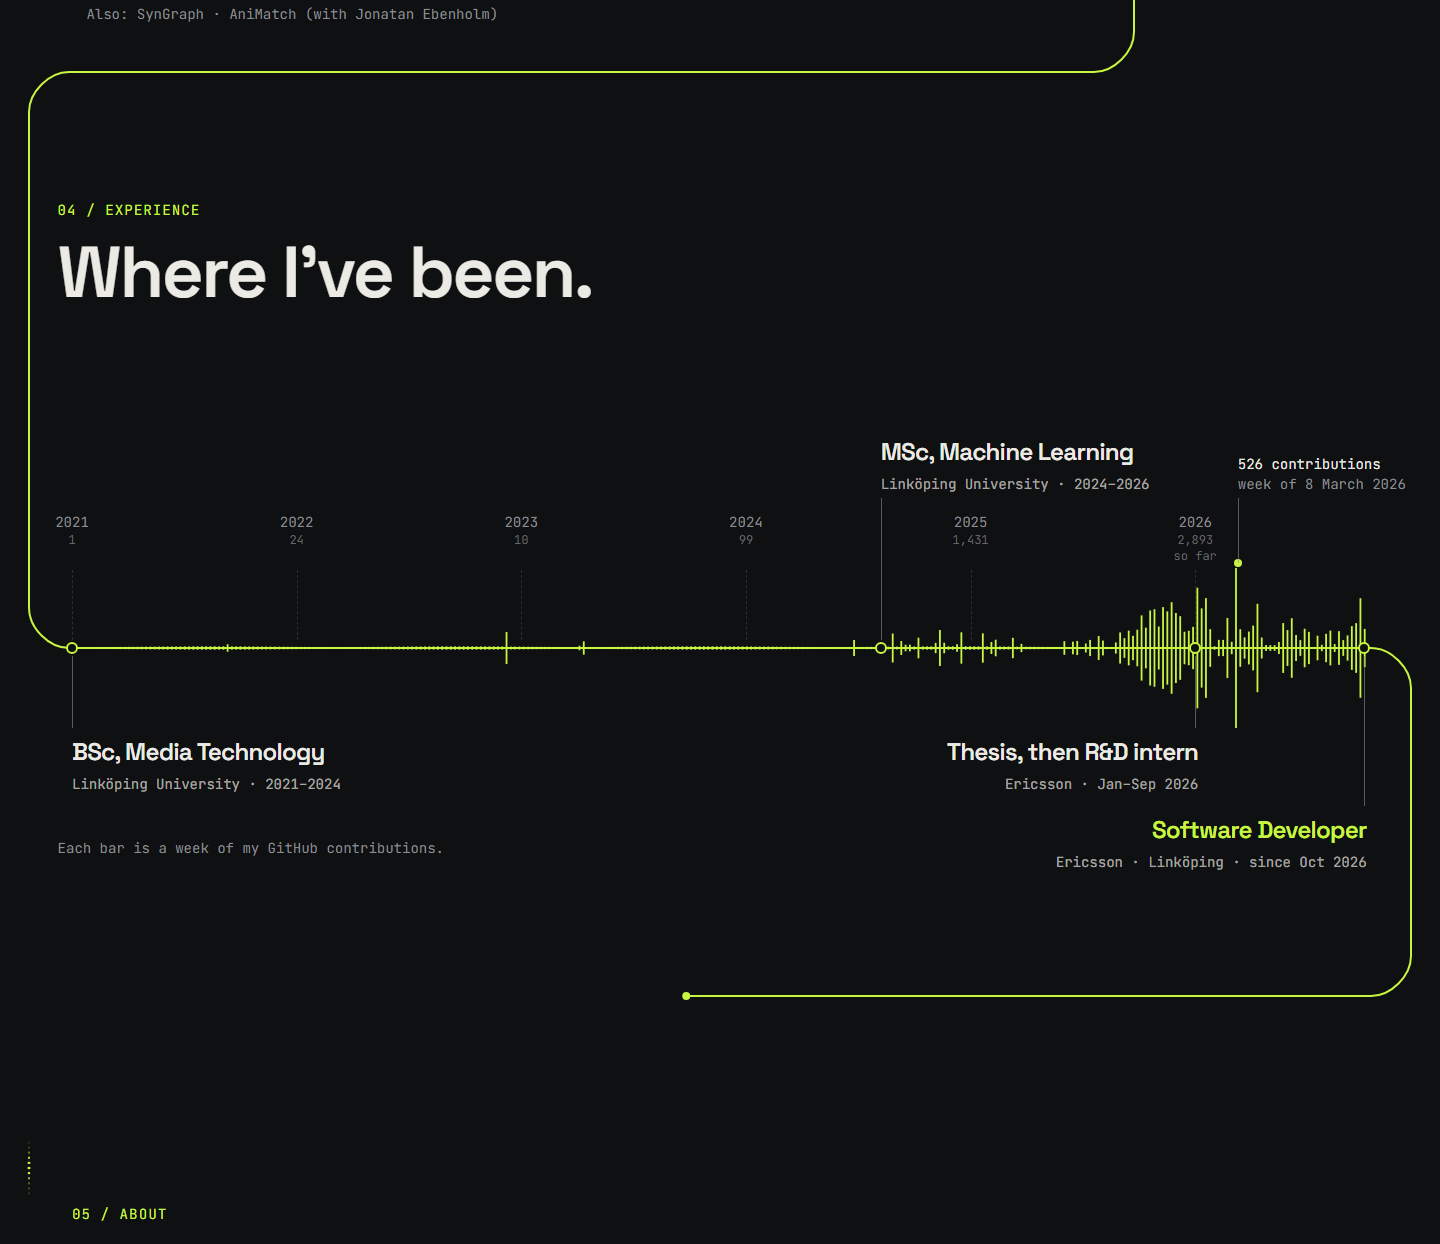
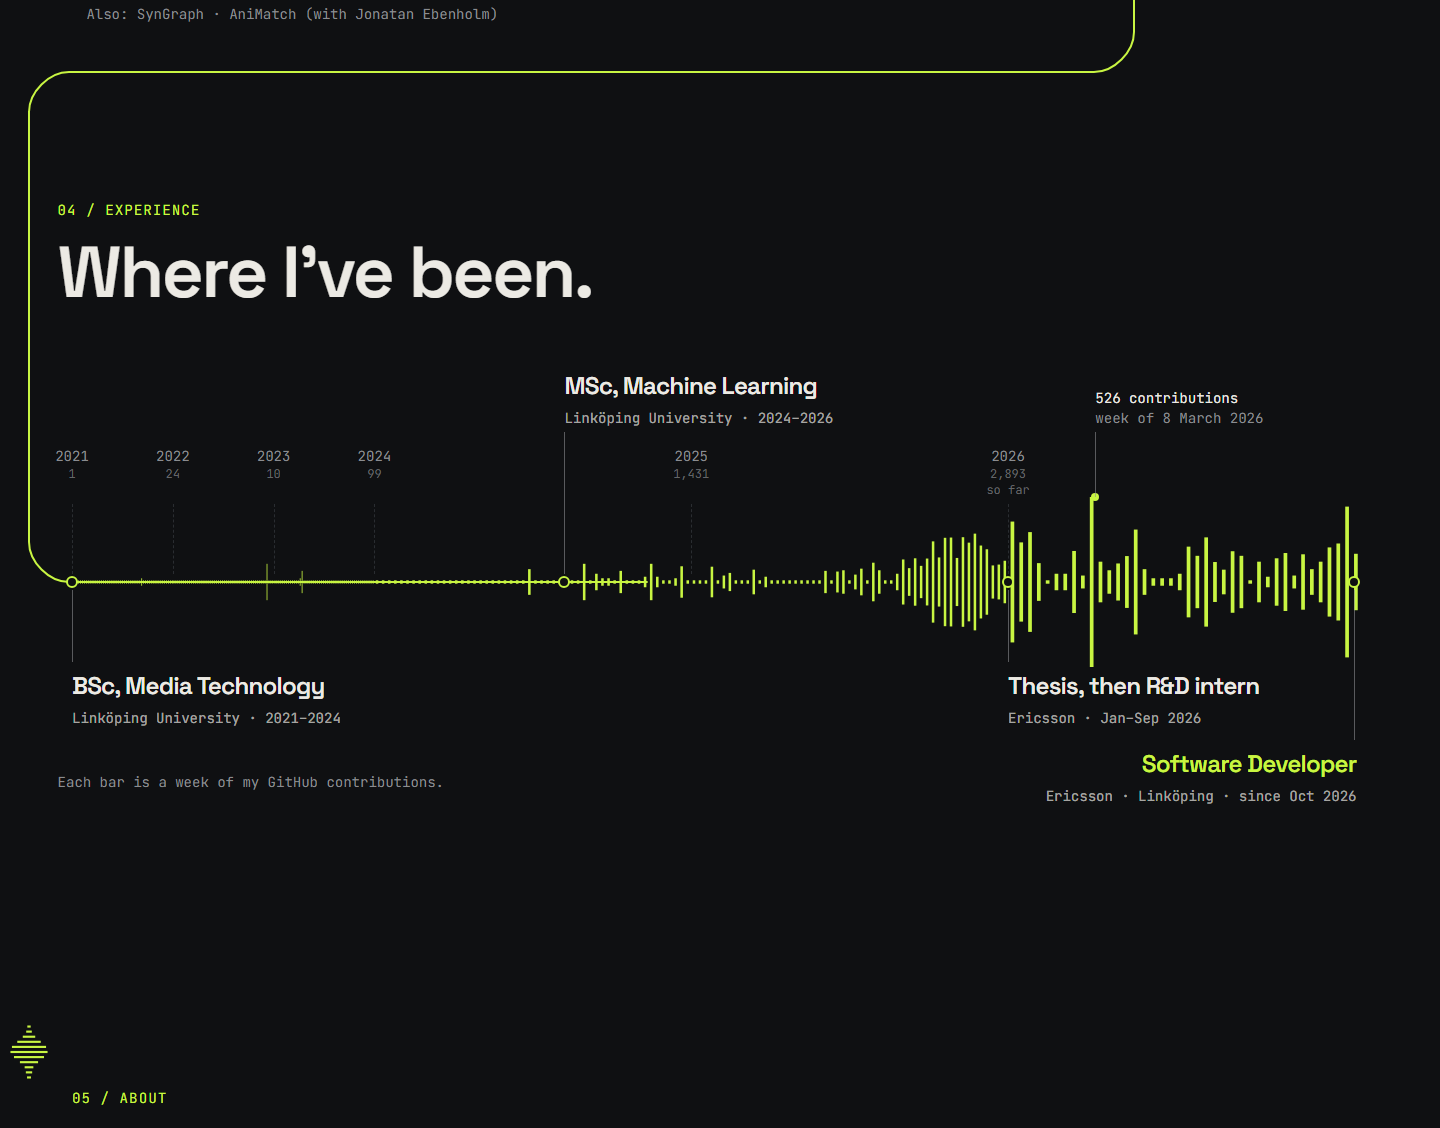
Experience: the quiet years before 2024 take a third of the width, so the wave fills the axis

diff --git a/components/landing/sections.tsx b/components/landing/sections.tsx
@@ -383,10 +383,15 @@ export function Research() {
   );
 }
 
-// Year to % along the time axis (desktop: from the left, phone: from the top), and px down the phone's axis.
-const X = (year: number) => 5 + (year - 2021) * 15.6;
-const Y = (year: number) => (40 + (year - 2021) * 92) / 6.4;
-const Ypx = (year: number) => 40 + (year - 2021) * 92;
+// Year to % along the time axis (desktop, from the left) and px down the phone's axis. The years before
+// 2024 barely show on GitHub, so they get a third of the room the later ones do.
+const axis = (stops: number[]) => (year: number) => {
+  const i = Math.min(stops.length - 2, Math.max(0, Math.floor(year - 2021)));
+  return stops[i]! + (year - 2021 - i) * (stops[i + 1]! - stops[i]!);
+};
+const X = axis([5, 12, 19, 26, 48, 70, 102]);
+const Ypx = axis([40, 90, 140, 190, 330, 470, 620]);
+const Y = (year: number) => Ypx(year) / 6.4;
 const years = [2021, 2022, 2023, 2024, 2025, 2026];
 // Where each moment sits on the axis, and on desktop whether it hangs above it.
 const moments = [
@@ -431,7 +436,15 @@ export function Experience({ commits }: { commits: Commits | null }) {
     c.experience.peak(num(peak.count)),
     c.experience.week(new Intl.DateTimeFormat(tag, { day: "numeric", month: "long", year: "numeric", timeZone: "UTC" }).format(new Date(peak.start))),
   ];
-  const wave = { floor: 0.02, peaks: careerPeaks, sweep: true, values };
+  const wave = { floor: 0.02, peaks: careerPeaks, sweep: true };
+  // One stretch of bars per year, since the years are drawn at different widths.
+  const stretches = weeks
+    ? years.map((y) => ({
+        from: y === 2021 ? from : y,
+        to: y === years.at(-1) ? to : y + 1,
+        values: values!.filter((_, i) => Math.max(2021, Math.floor(yearOf(weeks[i]!.start))) === y),
+      }))
+    : [{ from, to, values: undefined }];
   return (
     <section className="relative scroll-mt-16 pt-24 lg:pt-20" id="experience">
       <div className="pr-6 pl-12 lg:pl-[4%]">
@@ -449,12 +462,14 @@ export function Experience({ commits }: { commits: Commits | null }) {
       </div>
 
       {/* Desktop: the trace comes in on the left and runs the axis from 2021 to now, a bar a week. */}
-      <div className="relative mt-10 hidden h-[600px] lg:block">
+      <div className="relative mt-6 hidden h-[500px] lg:block">
         <A className="top-[calc(50%-40px)] left-[2%]" />
         <A className="top-1/2 [--dir:h]" style={{ left: `${X(from)}%` }} />
-        <div className="-translate-y-1/2 absolute top-1/2 h-[170px]" style={{ left: `${X(from)}%`, width: `${X(to) - X(from)}%` }}>
-          <Wave className="size-full" n={values?.length ?? 240} {...wave} />
-        </div>
+        {stretches.map((st) => (
+          <div className="-translate-y-1/2 absolute top-1/2 h-[170px]" key={st.from} style={{ left: `${X(st.from)}%`, width: `${X(st.to) - X(st.from)}%` }}>
+            <Wave className="size-full" n={st.values?.length ?? 240} values={st.values} {...wave} />
+          </div>
+        ))}
         {years.map((y) => (
           <div key={y}>
             <span className="-translate-x-1/2 absolute top-[calc(50%-136px)] whitespace-nowrap text-center text-(--dim) text-sm" style={{ left: `${X(y)}%` }}>
@@ -507,9 +522,11 @@ export function Experience({ commits }: { commits: Commits | null }) {
       <div className="relative mt-10 h-[640px] lg:hidden">
         <A className="top-0 left-5" />
         <A className="left-[88px]" style={{ top: Ypx(from) }} />
-        <div className="-translate-x-1/2 absolute left-[88px] w-10" style={{ top: Ypx(from), height: Ypx(to) - Ypx(from) }}>
-          <Wave className="size-full" n={values?.length ?? 90} vertical {...wave} />
-        </div>
+        {stretches.map((st) => (
+          <div className="-translate-x-1/2 absolute left-[88px] w-10" key={st.from} style={{ top: Ypx(st.from), height: Ypx(st.to) - Ypx(st.from) }}>
+            <Wave className="size-full" n={st.values?.length ?? 90} values={st.values} vertical {...wave} />
+          </div>
+        ))}
         {years.map((y) => (
           <span className="-translate-y-1/2 absolute left-6 text-(--dim) text-xs" key={y} style={{ top: `${Y(y)}%` }}>
             {y}

diff --git a/design/README.md b/design/README.md
@@ -51,7 +51,7 @@ the stations are in `lib/data/flows.ts` and the drawing is `components/landing/f
   sections place zero-size anchors (`<A />` in `components/landing/trace.tsx`) and the root joins them
   with curves; an anchor hidden at a breakpoint is skipped, so desktop and phone route differently.
 - Motion: the trace draws itself on scroll down to a pen at 75 % of the viewport, with a lime dot at its
-  tip. Each waveform (`<Wave />`) swells from flat when the line reaches it; the career axis and the contact waveform fill bar by bar as the line runs through them, and the line always joins a waveform at its end, never inside it. The stack's plates open with the scroll: closed as the drawing comes up, fully open once the whole drawing is on screen, and closing again on the way back up, with the guides and labels fading in last. While open each plate's finish loops (the focus field steps across the layout, a dash runs the groove, matrix cells blink, contour rings ripple, slots light in turn); with reduced motion the stack is open and still. The photo prints work the same way: piled in the middle as the row comes up, dealt out once the whole row is on screen, piled again on the way back up. On desktop the hero's signal fills from left to right as the page starts to scroll and the trace leaves from its right end (on phones it is already on). Experience runs from 2021 on the left to now on the right, a bar per week of GitHub contributions read at build time (`lib/github.ts`, `experience-r1.md`), each as tall as the square root of its count, with year totals under the years and the busiest week called out; without a GITHUB_TOKEN the drawn wave stands in.
+  tip. Each waveform (`<Wave />`) swells from flat when the line reaches it; the career axis and the contact waveform fill bar by bar as the line runs through them, and the line always joins a waveform at its end, never inside it. The stack's plates open with the scroll: closed as the drawing comes up, fully open once the whole drawing is on screen, and closing again on the way back up, with the guides and labels fading in last. While open each plate's finish loops (the focus field steps across the layout, a dash runs the groove, matrix cells blink, contour rings ripple, slots light in turn); with reduced motion the stack is open and still. The photo prints work the same way: piled in the middle as the row comes up, dealt out once the whole row is on screen, piled again on the way back up. On desktop the hero's signal fills from left to right as the page starts to scroll and the trace leaves from its right end (on phones it is already on). Experience runs from 2021 on the left to now on the right, a bar per week of GitHub contributions read at build time (`lib/github.ts`, `experience-r1.md`), each as tall as the square root of its count, with year totals under the years and the busiest week called out; the years before 2024 barely show on GitHub, so they get a third of the width of the later ones; without a GITHUB_TOKEN the drawn wave stands in.
   With prefers-reduced-motion the trace is drawn in full and nothing moves.
 - Phone: the trace runs in a lane 20 px from the left edge, text starts at 48 px, drawings run top to
   bottom, tap targets are at least 44 px. The header is "Berkay Orhan", Contact and a menu on every screen.
